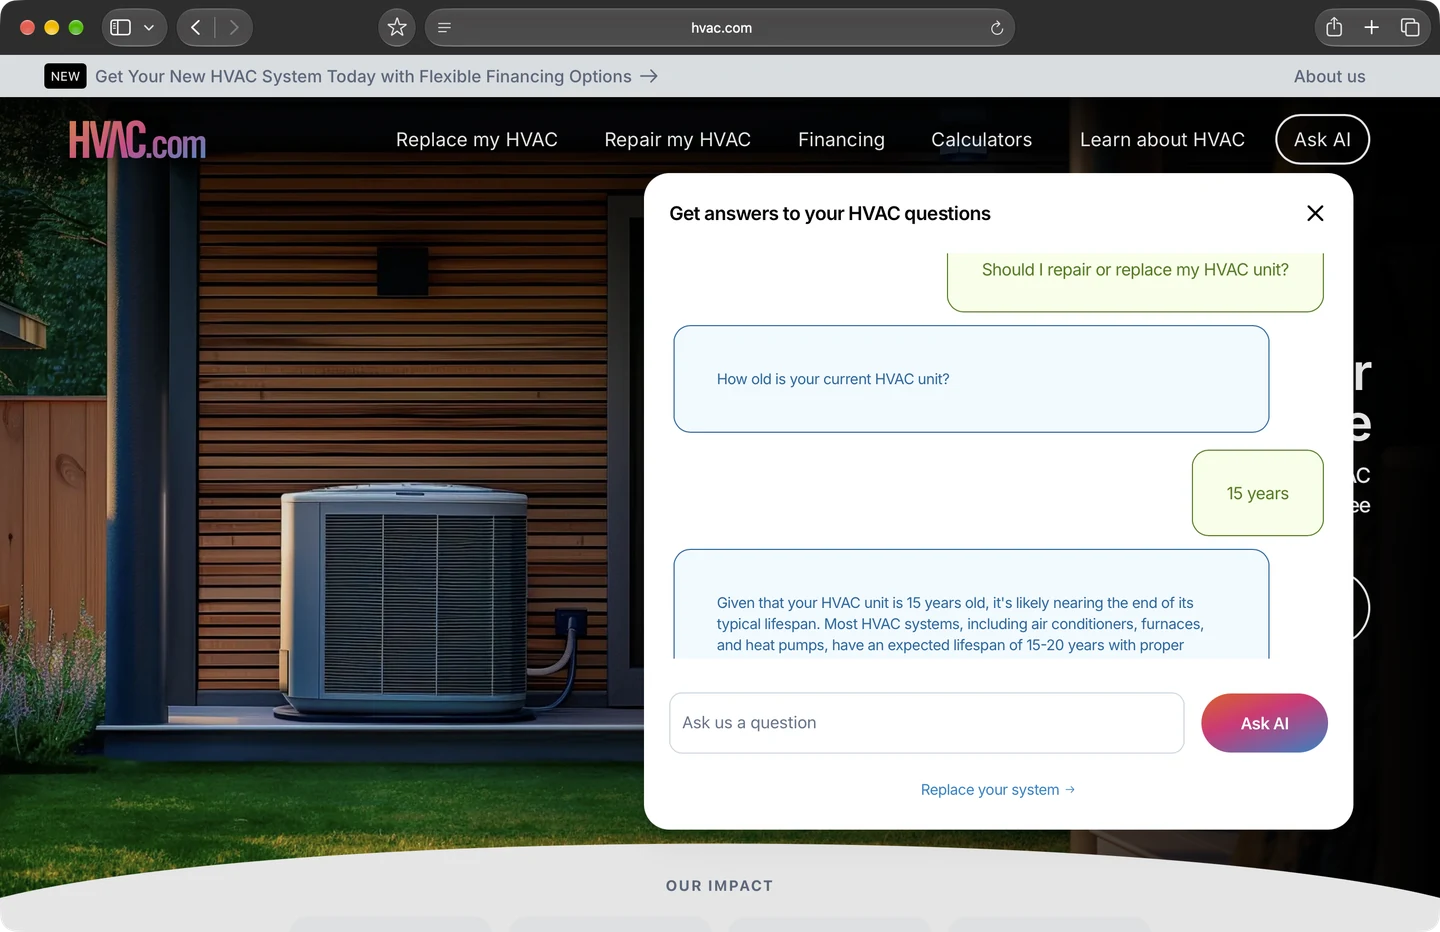
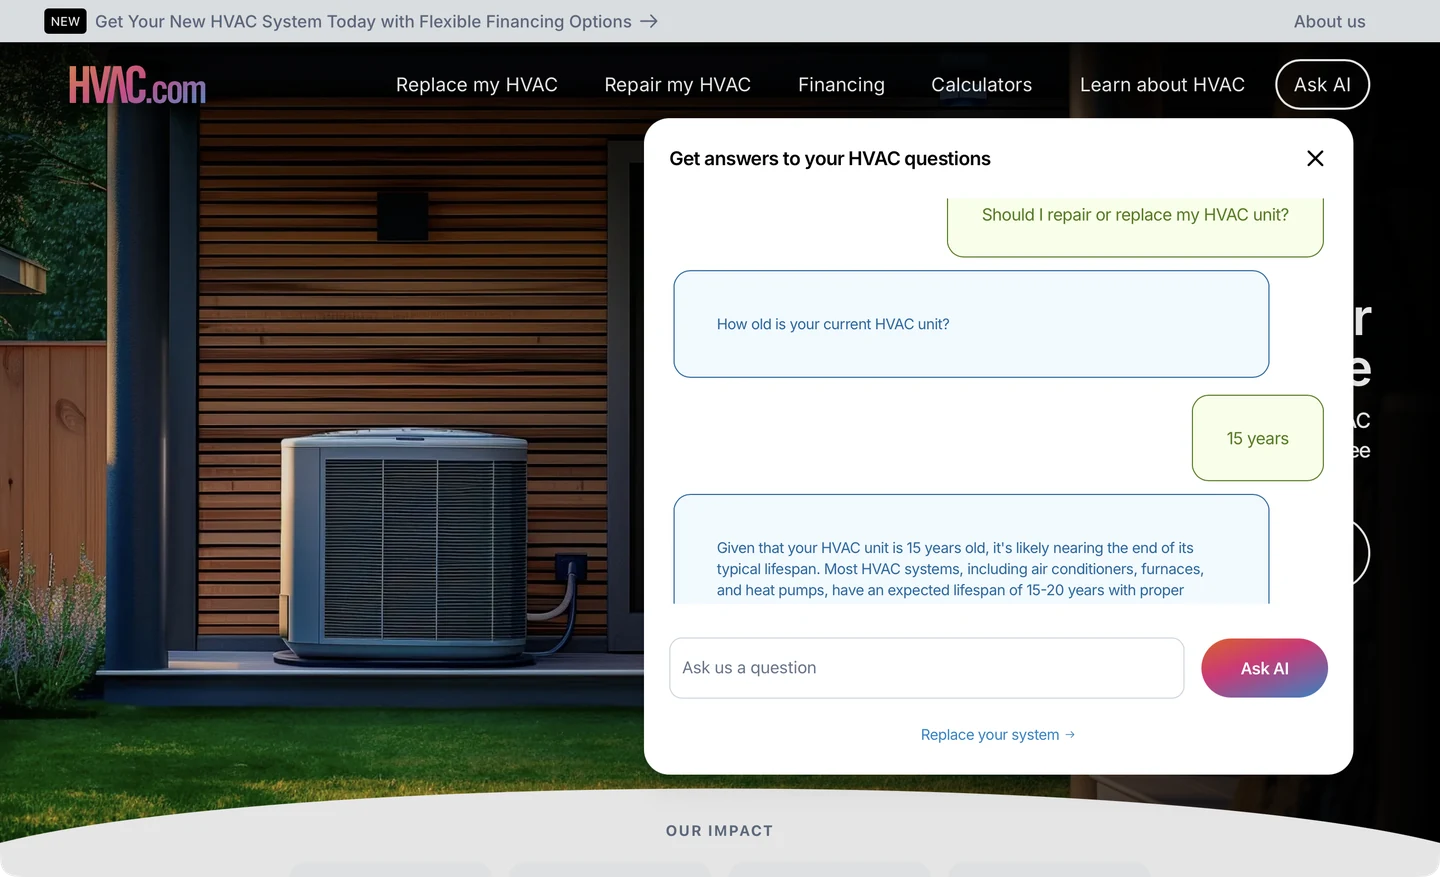
HVAC case study: trim the Execution card, crop the browser chrome off Ask AI
Both of the two things I flagged, now that Kevin has picked them.

EXECUTION CARD. The opening clause went. It enumerated remove / reorder /
rewrite / test-against-control and named both funnels, all of which the
Capabilities card two sections up already says. What is left is the claim that
section uniquely carries:

    Every variant ran against control without an engineering deploy. Changing
    the funnel stopped being a ticket and became a same-day product decision.
    Test velocity went from deploy-limited to idea-limited.

Shared content words with the Capabilities card drop from 12 to 4. I told Kevin
to expect 2. The two I did not account for are "funnel", which survives in the
second sentence, and "variant", which survives in the first.

ASK AI IMAGE. Cropped the top 104 of 1766 pixels, which is where the macOS
window chrome ends and the site's own announcement bar begins -- measured by
scanning down the frame for the row where the dark chrome gives way to the
page's light grey, not chosen by eye. The other four walkthrough images are
page-only captures and this one arrived with traffic lights, a URL bar and a tab
bar, so in the grid it read as a different kind of picture.

Nothing of the page is lost: the crop stops at the page's first pixel, and the
top row of the encoded file reads 217,221,224, the grey of the announcement bar.
Aspect moves 1.545 to 1.641, so it is closer to the grid's 1.60 thumbnail ratio
[…]

diff --git a/casestudies/case-study-hvac.html b/casestudies/case-study-hvac.html
@@ -350,7 +350,7 @@
                 </div>
                 <div class="card card--mint">
                     <h3>🎛 Funnel-Level Experimentation</h3>
-                    <p>I could remove steps, reorder them, and rewrite copy across both the Repair and Replace funnels, then test each variant against control without an engineering deploy. Changing the funnel stopped being a ticket and became a same-day product decision. Test velocity went from deploy-limited to idea-limited.</p>
+                    <p>Every variant ran against control without an engineering deploy. Changing the funnel stopped being a ticket and became a same-day product decision. Test velocity went from deploy-limited to idea-limited.</p>
                 </div>
             </div>
 
